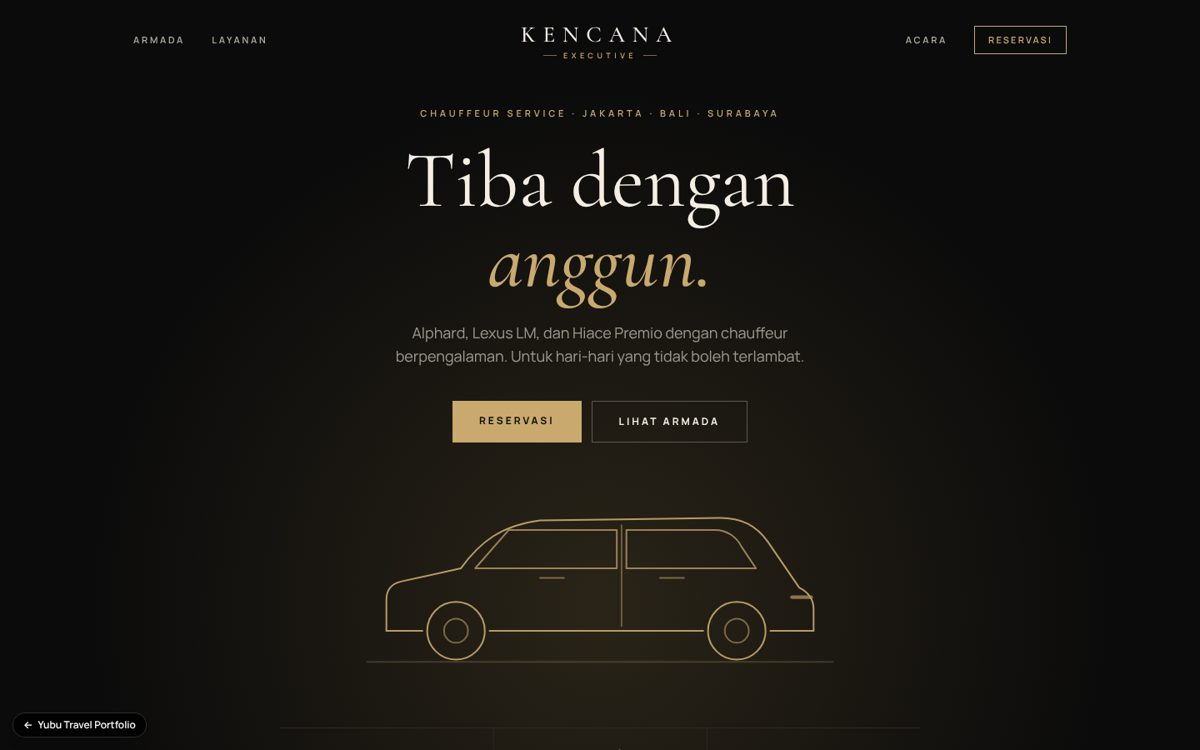
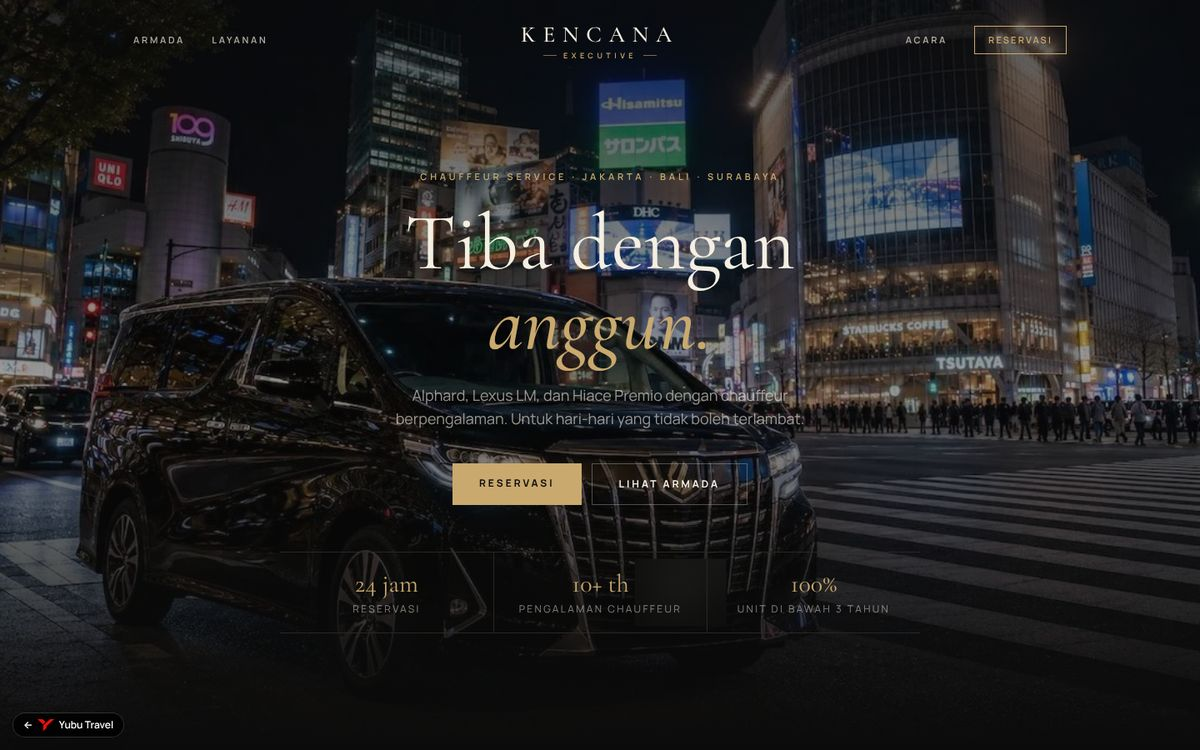
Pasang foto Kencana Executive: hero, 4 unit, 3 acara
- Foto Alphard, Lexus LM, Hiace Premio, Innova Zenix (4:3)
- Hero malam hari, foto pernikahan, korporat, dan VIP airport (3:4)
- Watermark stok dipotong dan plat nomor diburamkan

Claude-Session: https://claude.ai/code/session_01T9xYak59ohEDkUVoekzEJy

diff --git a/src/app/kencana-executive/data.ts b/src/app/kencana-executive/data.ts
@@ -7,8 +7,8 @@ export const KENCANA_WA = "6281234567890";
  * Isi dengan path di public/kencana/ setelah file diunggah.
  */
 export const IMAGES: { hero: string | null; occasions: Record<string, string | null> } = {
-  hero: null,
-  occasions: { wedding: null, corporate: null, airport: null },
+  hero: "/kencana/hero.jpg",
+  occasions: { wedding: "/kencana/wedding.jpg", corporate: "/kencana/corporate.jpg", airport: "/kencana/airport.jpg" },
 };
 
 export type PackageId = "half" | "full" | "transfer";
@@ -33,7 +33,7 @@ export const UNITS: Unit[] = [
     seats: 6,
     luggage: 3,
     tag: "Paling diminati",
-    image: null,
+    image: "/kencana/alphard.jpg",
     prices: { half: 1800000, full: 2800000, transfer: 1200000 },
     features: ["Captain seat dengan pijat", "Ottoman & sandaran kaki", "Ambient light", "Sunroof"],
   },
@@ -44,7 +44,7 @@ export const UNITS: Unit[] = [
     seats: 4,
     luggage: 2,
     tag: "Paling eksklusif",
-    image: null,
+    image: "/kencana/lexus-lm.jpg",
     prices: { half: 4500000, full: 7000000, transfer: 2500000 },
     features: ["Partisi privasi + layar 48 inci", "Kursi kulit semi-anilin", "Kulkas mini", "Audio Mark Levinson"],
   },
@@ -55,7 +55,7 @@ export const UNITS: Unit[] = [
     seats: 10,
     luggage: 6,
     tag: "Untuk rombongan",
-    image: null,
+    image: "/kencana/hiace-luxury.jpg",
     prices: { half: 1600000, full: 2500000, transfer: 1100000 },
     features: ["Captain seat kulit", "Kabin tinggi & lega", "TV & karaoke", "Bagasi besar"],
   },
@@ -65,7 +65,7 @@ export const UNITS: Unit[] = [
     variant: "Hybrid Q",
     seats: 6,
     luggage: 3,
-    image: null,
+    image: "/kencana/zenix.jpg",
     prices: { half: 900000, full: 1400000, transfer: 600000 },
     features: ["Hybrid, senyap & hemat", "Captain seat baris kedua", "Panoramic roof", "Charger nirkabel"],
   },
